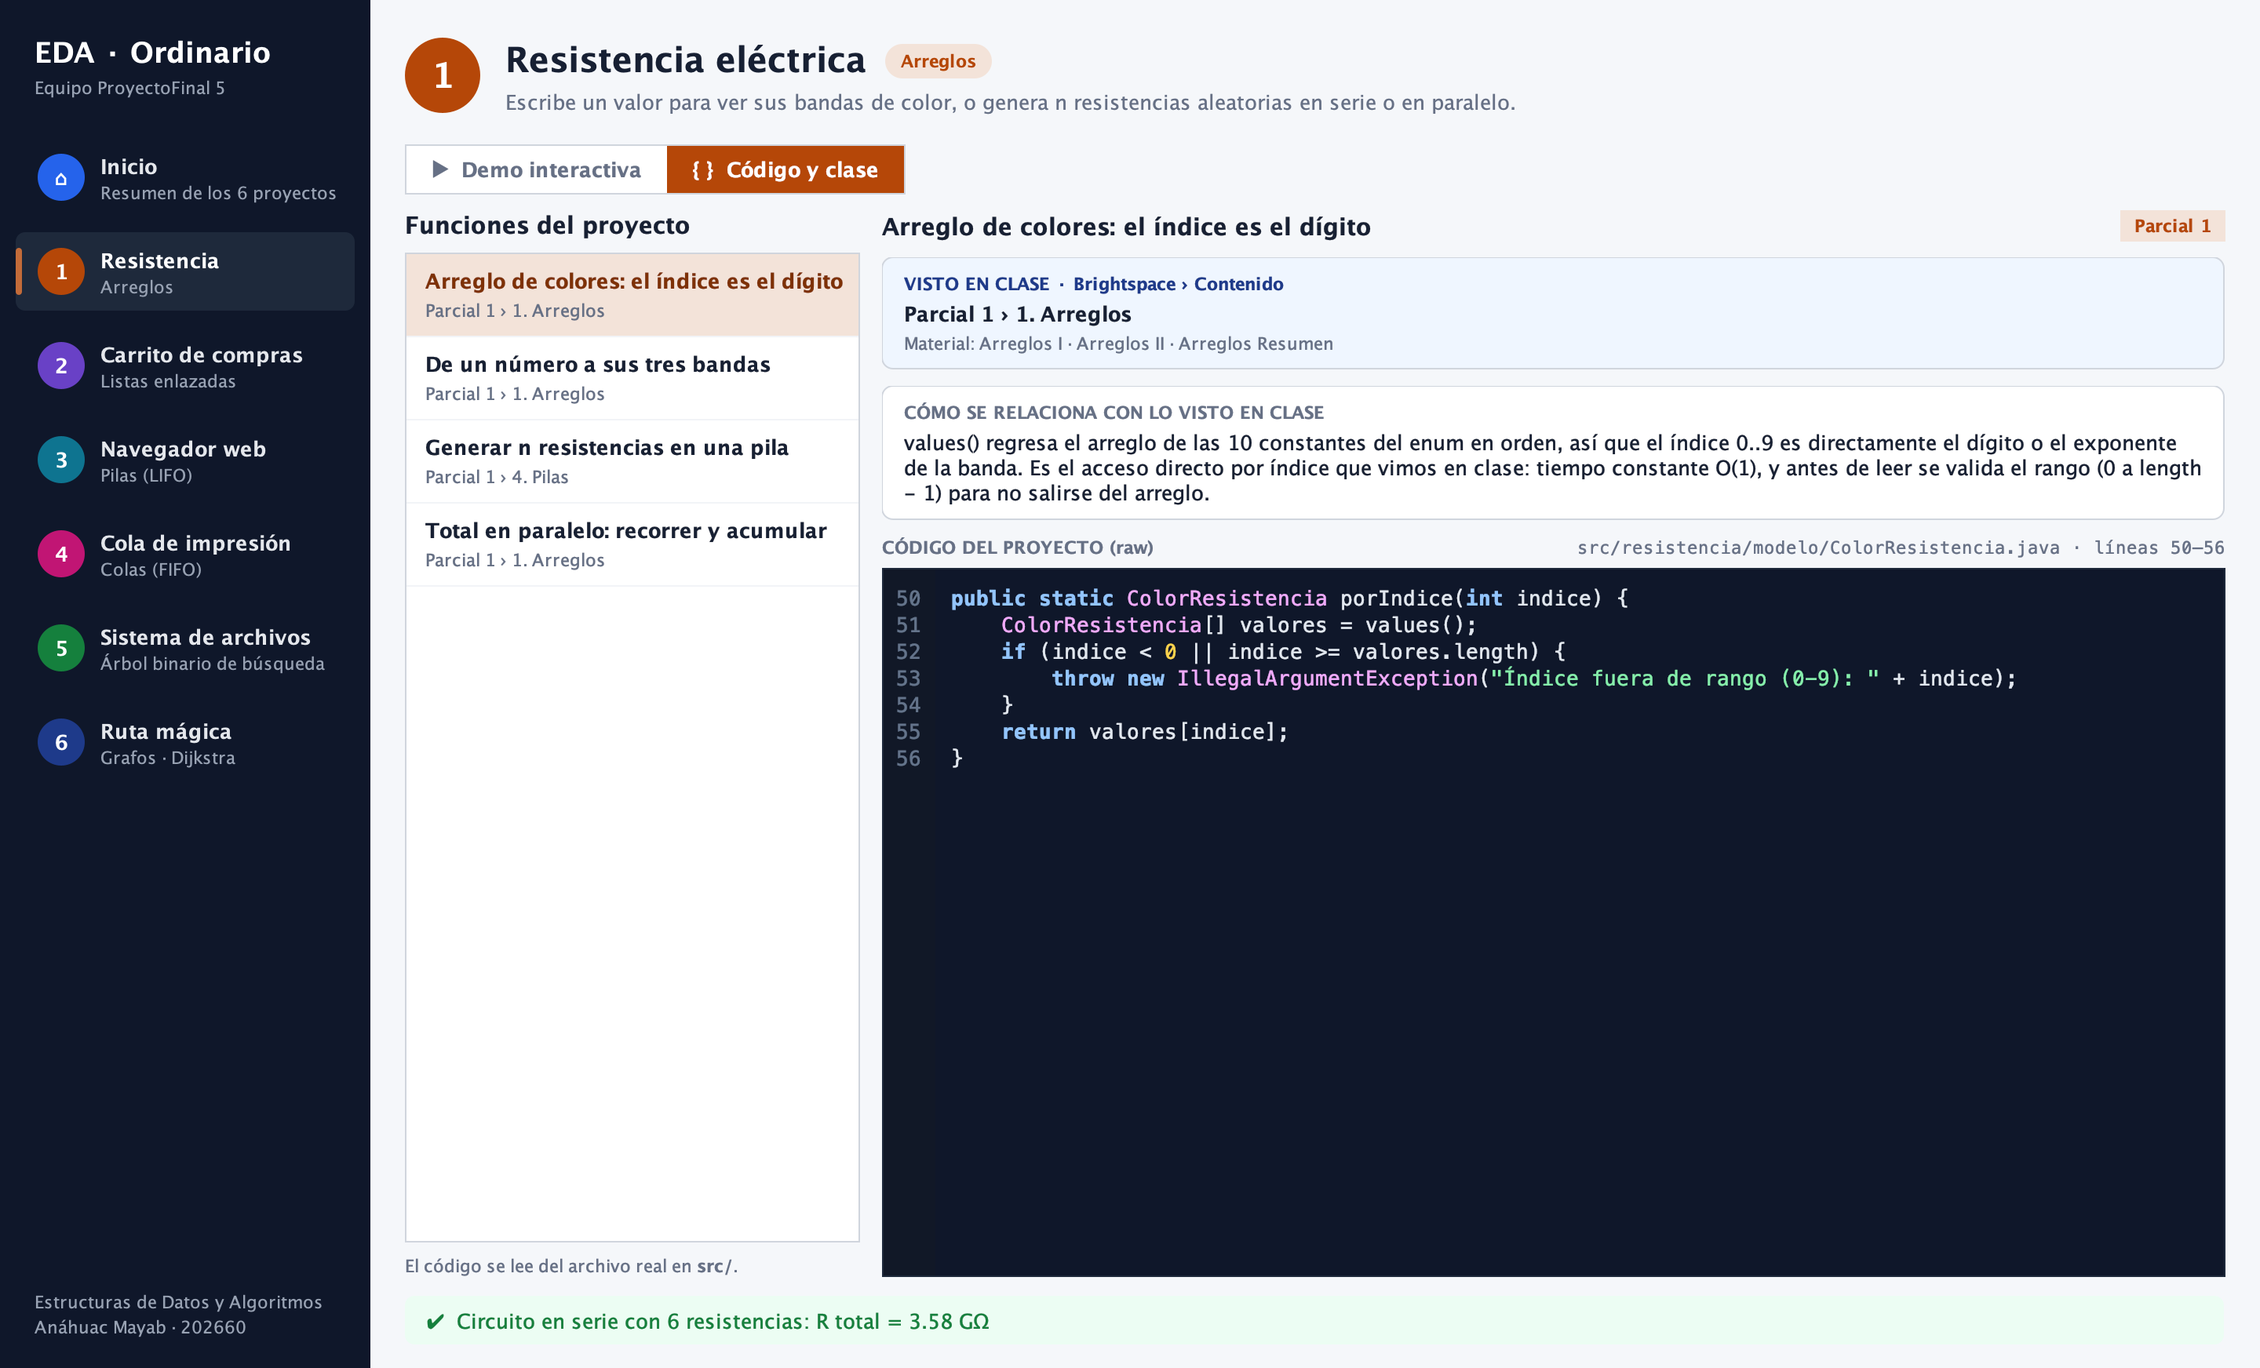
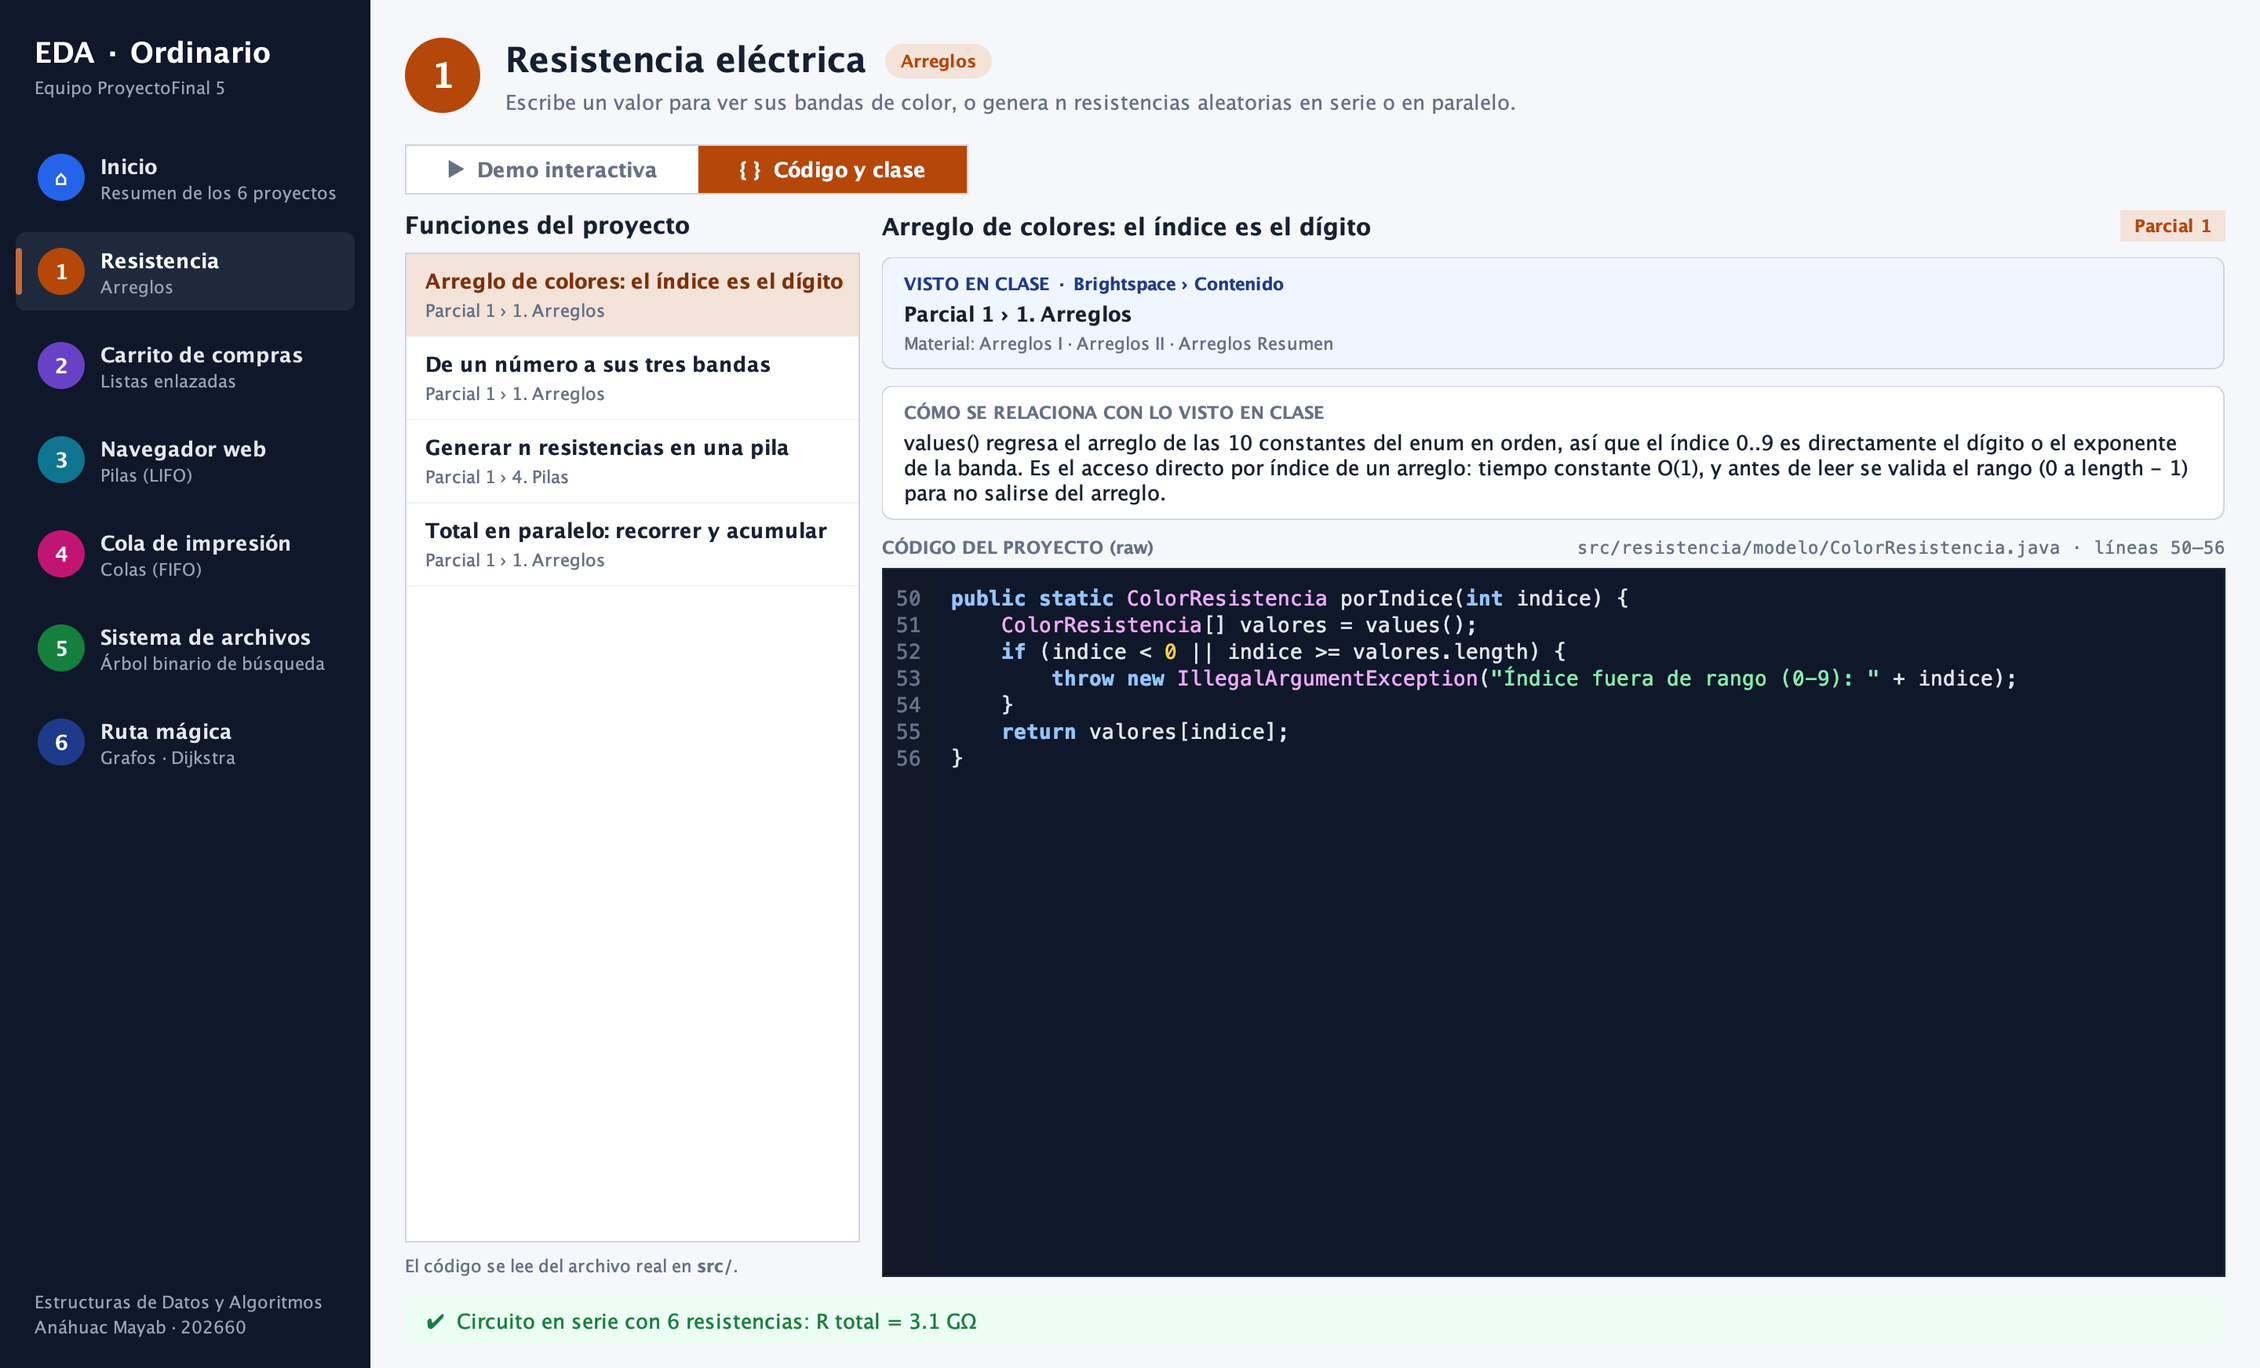
Versión web del dashboard (CheerpJ) y explicaciones que sólo describen el código

diff --git a/web/index.html b/web/index.html
@@ -1,0 +1,71 @@
+<!doctype html>
+<html lang="es">
+<head>
+<meta charset="utf-8">
+<meta name="viewport" content="width=device-width, initial-scale=1">
+<meta name="robots" content="noindex">
+<title>EDA · Proyecto Ordinario · Equipo 5</title>
+<style>
+  * { box-sizing: border-box; }
+  body { margin: 0; background: #f5f7fa; color: #172033; font: 16px/1.5 system-ui, sans-serif; }
+  header, main { max-width: 1420px; margin: 0 auto; padding: 16px; }
+  h1 { font-size: 22px; margin: 0; }
+  h2 { font-size: 18px; margin: 28px 0 8px; }
+  p { margin: 6px 0; }
+  a { color: #1e3a8a; }
+  .gris { color: #667085; font-size: 14px; }
+  #marco { width: 100%; overflow-x: auto; border-radius: 10px; }
+  #app { margin: 0 auto; }
+  #aviso { padding: 10px 14px; border-radius: 8px; background: #eff6ff; border: 1px solid #d0d5dd; margin: 10px 0; }
+  .galeria { display: grid; gap: 14px; grid-template-columns: repeat(auto-fit, minmax(min(100%, 340px), 1fr)); }
+  figure { margin: 0; background: #fff; border: 1px solid #d0d5dd; border-radius: 10px; overflow: hidden; }
+  figure img { width: 100%; display: block; }
+  figcaption { padding: 8px 12px; font-size: 14px; }
+</style>
+</head>
+<body>
+<header>
+  <h1>Proyecto Ordinario · Estructuras de Datos y Algoritmos</h1>
+  <p class="gris">Universidad Anáhuac Mayab · Equipo ProyectoFinal 5 ·
+    <a href="https://github.com/diegoanahuac/EDA_ORDINARIO_5/tree/explicacion-clase">código en GitHub</a></p>
+</header>
+<main>
+  <div id="aviso" role="status">Cargando el dashboard… La primera vez puede tardar hasta un minuto.</div>
+  <div id="marco"><div id="app"></div></div>
+  <p>En cada proyecto hay dos botones: <b>Demo interactiva</b> y <b>Código y clase</b>, que muestra el código real de cada función y el tema del curso con el que se relaciona.</p>
+  <p class="gris">Es el mismo programa en Java (Swing) ejecutándose en el navegador.
+    <a href="https://cheerpj.com">Built with CheerpJ</a>. Se ve mejor en una computadora; en el teléfono usa las capturas.</p>
+  <h2>Capturas de «Código y clase»</h2>
+  <div class="galeria">
+    <figure><a href="capturas/clase_01_resistencia.png"><img loading="lazy" src="capturas/clase_01_resistencia.png" alt="Código y clase del proyecto Resistencia eléctrica"></a><figcaption>1. Resistencia eléctrica · arreglos y pilas</figcaption></figure>
+    <figure><a href="capturas/clase_02_carrito.png"><img loading="lazy" src="capturas/clase_02_carrito.png" alt="Código y clase del proyecto Carrito de compras"></a><figcaption>2. Carrito de compras · listas</figcaption></figure>
+    <figure><a href="capturas/clase_03_navegador.png"><img loading="lazy" src="capturas/clase_03_navegador.png" alt="Código y clase del proyecto Navegador web"></a><figcaption>3. Navegador web · pilas</figcaption></figure>
+    <figure><a href="capturas/clase_04_cola.png"><img loading="lazy" src="capturas/clase_04_cola.png" alt="Código y clase del proyecto Cola de impresión"></a><figcaption>4. Cola de impresión · colas</figcaption></figure>
+    <figure><a href="capturas/clase_05_archivos.png"><img loading="lazy" src="capturas/clase_05_archivos.png" alt="Código y clase del proyecto Sistema de archivos"></a><figcaption>5. Sistema de archivos · árbol binario de búsqueda</figcaption></figure>
+    <figure><a href="capturas/clase_06_ruta.png"><img loading="lazy" src="capturas/clase_06_ruta.png" alt="Código y clase del proyecto Ruta mágica"></a><figcaption>6. Ruta mágica · grafos y Dijkstra</figcaption></figure>
+  </div>
+</main>
+<script src="https://cjrtnc.leaningtech.com/4.3/loader.js"></script>
+<script>
+  const marco = document.getElementById('marco'), app = document.getElementById('app'), aviso = document.getElementById('aviso');
+  // Sin escalar con CSS: CheerpJ no corrige la posición de los clics. La ventana
+  // de Java toma el tamaño de la página (mínimo 1180 x 760, el del dashboard).
+  const ancho = Math.max(1180, Math.min(1380, marco.clientWidth));
+  const alto = Math.max(760, Math.min(880, innerHeight - 110));
+  app.style.width = ancho + 'px';
+  app.style.height = alto + 'px';
+  (async () => {
+    try {
+      await cheerpjInit({ version: 11, status: 'splash' });
+      cheerpjCreateDisplay(ancho, alto, app);
+      const base = location.pathname.replace(/[^/]*$/, '');
+      cheerpjRunMain('dashboard.Web', '/app' + base + 'EDA_Ordinario.jar', String(ancho), String(alto))
+        .catch(e => { aviso.textContent = 'El dashboard se detuvo: ' + e + '. Usa las capturas de abajo.'; aviso.hidden = false; });
+      const espera = setInterval(() => { if (app.querySelector('canvas')) { aviso.hidden = true; clearInterval(espera); } }, 500);
+    } catch (e) {
+      aviso.textContent = 'No se pudo cargar el dashboard en este navegador (' + e + '). Usa las capturas de abajo.';
+    }
+  })();
+</script>
+</body>
+</html>

diff --git a/src/dashboard/clase/CatalogoClase.java b/src/dashboard/clase/CatalogoClase.java
@@ -39,12 +39,12 @@ public final class CatalogoClase {
                             "resistencia/modelo/ColorResistencia.java", "public static ColorResistencia porIndice",
                             "values() regresa el arreglo de las 10 constantes del enum en orden, así que el "
                                     + "índice 0..9 es directamente el dígito o el exponente de la banda. Es el acceso "
-                                    + "directo por índice que vimos en clase: tiempo constante O(1), y antes de leer se "
+                                    + "directo por índice de un arreglo: tiempo constante O(1), y antes de leer se "
                                     + "valida el rango (0 a length - 1) para no salirse del arreglo."),
                     new Referencia("De un número a sus tres bandas",
                             P1, T_ARREGLOS, M_ARREGLOS,
                             "resistencia/modelo/Resistencia.java", "public Resistencia(long valorOhmios)",
-                            "El valor se convierte en un arreglo de caracteres (sus dígitos) y se leen las "
+                            "El valor se convierte en texto (sus dígitos) y se leen con charAt las "
                                     + "posiciones 0 y 1. La cantidad de dígitos que sobran es el exponente. Después, "
                                     + "cada número se usa como índice del arreglo de colores con porIndice."),
                     new Referencia("Generar n resistencias en una pila",
@@ -58,7 +58,7 @@ public final class CatalogoClase {
                             "resistencia/modelo/CircuitoParalelo.java", "public double calcularTotal()",
                             "Recorrido secuencial con for-each: se acumula la suma de inversos y al final se "
                                     + "invierte (1/Rt = 1/R1 + 1/R2 + ...). Es el patrón de recorrido y acumulador "
-                                    + "que vimos con arreglos, O(n).")),
+                                    + "con arreglos, O(n).")),
             2, List.of(
                     new Referencia("Insertar al final de la lista",
                             P1, T_LISTAS, M_LISTAS,
@@ -72,7 +72,7 @@ public final class CatalogoClase {
                             "Se avanza con dos apuntadores, 'anterior' y 'actual'. Si el nodo a borrar es la "
                                     + "cabeza, la cabeza pasa al siguiente; si está en medio o al final, el anterior "
                                     + "se salta el nodo (anterior.siguiente = actual.siguiente). Son los dos casos de "
-                                    + "eliminación vistos en clase."),
+                                    + "eliminación en una lista simple."),
                     new Referencia("Recorrer la lista para el total",
                             P1, T_LISTAS, M_LISTAS,
                             "carrito/Carrito.java", "public double calcularTotal()",
@@ -85,7 +85,7 @@ public final class CatalogoClase {
                             "navegador/modelo/Pila.java", "public void apilar(T elemento)",
                             "Pila implementada con un arreglo y un índice 'tope'. Apilar escribe en "
                                     + "elementos[tope] y aumenta el tope; si la pila está llena se lanza un error "
-                                    + "(desbordamiento). Es la operación push de clase, O(1)."),
+                                    + "(desbordamiento). Es la operación push, O(1)."),
                     new Referencia("Pop: desapilar la cima",
                             P1, T_PILAS, M_PILAS,
                             "navegador/modelo/Pila.java", "public T desapilar()",
@@ -103,7 +103,7 @@ public final class CatalogoClase {
                             P1, T_COLAS, M_COLAS,
                             "cola/ColaImpresion.java", "public String encolar(String computadora)",
                             "FIFO: el trabajo nuevo se agrega al final de la cola, y antes se revisa si ya está "
-                                    + "llena (capacidad 6). Es la operación encolar (enqueue) de clase."),
+                                    + "llena (capacidad 6). Es la operación encolar (enqueue)."),
                     new Referencia("Atender: sale el frente",
                             P1, T_COLAS, M_COLAS,
                             "cola/ColaImpresion.java", "public String atender()",
@@ -132,7 +132,7 @@ public final class CatalogoClase {
                     new Referencia("Eliminar: los tres casos",
                             P2, T_ARBOLES, M_ARBOLES,
                             "archivos/ArbolArchivos.java", "public boolean eliminar(String nombre)",
-                            "Los tres casos de clase: hoja (se quita), un hijo (el hijo toma su lugar) y dos "
+                            "Los tres casos de eliminación en un ABB: hoja (se quita), un hijo (el hijo toma su lugar) y dos "
                                     + "hijos (se reemplaza por el sucesor inorden, el menor del subárbol derecho, o por "
                                     + "el predecesor si el sucesor es un archivo).")),
             6, List.of(
@@ -145,14 +145,14 @@ public final class CatalogoClase {
                     new Referencia("Dijkstra: el camino más corto",
                             P2, T_GRAFOS, M_CAMINO,
                             "rutamagica/Dijkstra.java", "public Dijkstra(Grafo grafo, String origen)",
-                            "Como en clase: todos los vértices empiezan en infinito y el origen en 0; se toma el "
+                            "Dijkstra: todos los vértices empiezan en infinito y el origen en 0; se toma el "
                                     + "de menor distancia no visitado y se relajan sus vecinos (si pasar por él es más "
                                     + "corto, se actualiza la distancia y el anterior). La cola de prioridad sólo hace "
                                     + "más rápido elegir el menor."),
                     new Referencia("Reconstruir la ruta",
                             P2, T_GRAFOS, M_CAMINO,
                             "rutamagica/Dijkstra.java", "public List<String> getRuta(String destino)",
-                            "Se sigue el arreglo 'anterior' desde el destino hasta el origen y luego se invierte "
+                            "Se sigue el mapa 'anterior' desde el destino hasta el origen y luego se invierte "
                                     + "la lista. Si la distancia quedó en infinito, no hay ruta entre los dos pueblos."),
                     new Referencia("Leer el grafo desde un archivo",
                             P2, T_GRAFOS, M_GRAFOS,

diff --git a/src/dashboard/clase/ExtractorCodigo.java b/src/dashboard/clase/ExtractorCodigo.java
@@ -1,9 +1,13 @@
 package dashboard.clase;
 
+import java.io.BufferedReader;
 import java.io.File;
 import java.io.IOException;
+import java.io.InputStream;
+import java.io.InputStreamReader;
 import java.nio.charset.StandardCharsets;
 import java.nio.file.Files;
+import java.util.ArrayList;
 import java.util.List;
 
 /**
@@ -78,10 +82,11 @@ public final class ExtractorCodigo {
      * @return el fragmento, o un aviso si no se encontró
      */
     public static Fragmento extraer(String archivo, String firma) {
-        File fuente = new File(carpetaFuentes(), archivo);
         List<String> lineas;
         try {
-            lineas = Files.readAllLines(fuente.toPath(), StandardCharsets.UTF_8);
+            lineas = ExtractorCodigo.class.getResource("/src/" + archivo) != null
+                    ? lineasDelJar(archivo)
+                    : Files.readAllLines(new File(carpetaFuentes(), archivo).toPath(), StandardCharsets.UTF_8);
         } catch (IOException e) {
             return new Fragmento("// No se pudo leer " + archivo
                     + "\n// Ejecuta el dashboard desde la carpeta del proyecto (./ejecutar.sh).", 0, 0, false);
@@ -133,6 +138,22 @@ public final class ExtractorCodigo {
             }
         }
         return new Fragmento(sb.toString(), inicio + 1, fin + 1, true);
+    }
+
+    /** Versión web: los fuentes van dentro del JAR, en {@code /src}. */
+    private static List<String> lineasDelJar(String archivo) throws IOException {
+        InputStream entrada = ExtractorCodigo.class.getResourceAsStream("/src/" + archivo);
+        if (entrada == null) {
+            throw new IOException("No está en el JAR: " + archivo);
+        }
+        List<String> lineas = new ArrayList<>();
+        try (BufferedReader lector = new BufferedReader(new InputStreamReader(entrada, StandardCharsets.UTF_8))) {
+            String linea;
+            while ((linea = lector.readLine()) != null) {
+                lineas.add(linea);
+            }
+        }
+        return lineas;
     }
 
     private static int sangria(String linea) {

diff --git a/src/dashboard/Web.java b/src/dashboard/Web.java
@@ -1,0 +1,34 @@
+package dashboard;
+
+import javax.swing.JFrame;
+import javax.swing.SwingUtilities;
+import javax.swing.UIManager;
+
+/**
+ * Entrada de la versión web (GitHub Pages con CheerpJ). Es el mismo dashboard,
+ * sin marco de ventana y pegado a la esquina para llenar la página.
+ */
+public final class Web {
+    private Web() {
+    }
+
+    /**
+     * @param args ancho y alto del área de la página (opcional)
+     */
+    public static void main(String[] args) {
+        int ancho = args.length > 1 ? Integer.parseInt(args[0]) : 1380;
+        int alto = args.length > 1 ? Integer.parseInt(args[1]) : 880;
+        SwingUtilities.invokeLater(() -> {
+            try {
+                UIManager.setLookAndFeel(UIManager.getCrossPlatformLookAndFeelClassName());
+            } catch (Exception e) {
+                // Se queda el look and feel por defecto.
+            }
+            Dashboard dashboard = new Dashboard();
+            dashboard.setDefaultCloseOperation(JFrame.DO_NOTHING_ON_CLOSE);
+            dashboard.setUndecorated(true);
+            dashboard.setBounds(0, 0, ancho, alto);
+            dashboard.setVisible(true);
+        });
+    }
+}

diff --git a/src/dashboard/PanelProyecto.java b/src/dashboard/PanelProyecto.java
@@ -126,6 +126,9 @@ public abstract class PanelProyecto extends JPanel {
             b.setFocusPainted(false);
             b.setBorder(BorderFactory.createEmptyBorder(7, 16, 7, 16));
             b.setOpaque(true);
+            // Holgura: con otras fuentes (versión web) el texto mide un poco más.
+            Dimension medida = b.getPreferredSize();
+            b.setPreferredSize(new Dimension(medida.width + 20, medida.height));
             b.setCursor(java.awt.Cursor.getPredefinedCursor(java.awt.Cursor.HAND_CURSOR));
             fila.add(b);
         }
